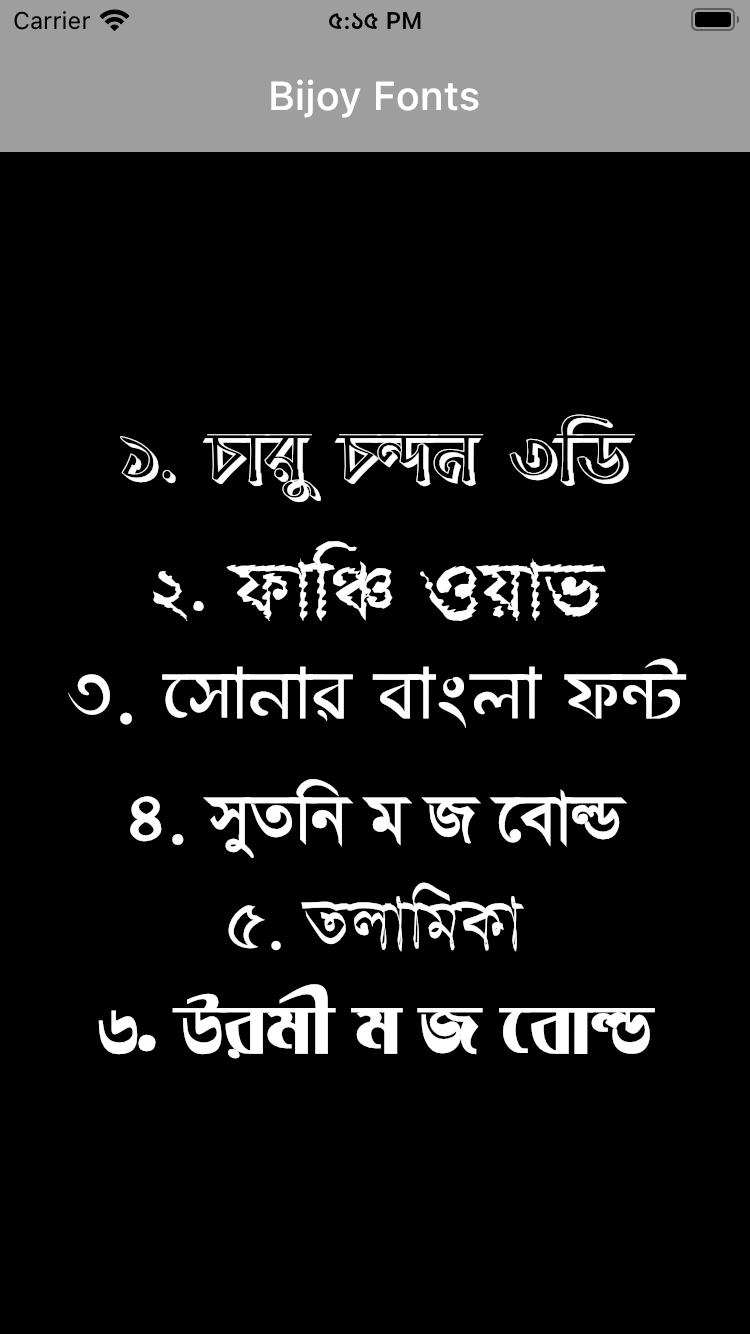
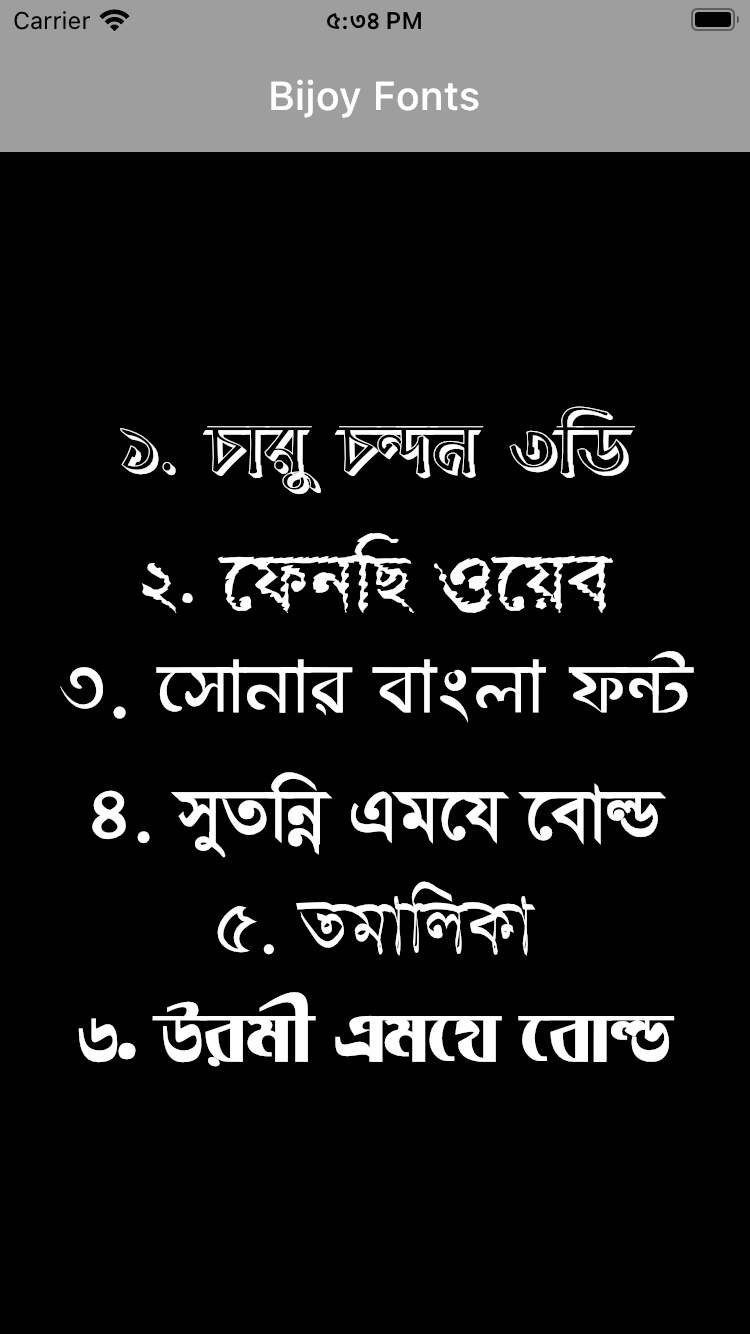
Bijoy Fonts implimentation

diff --git a/lib/views/bijoy_fonts.dart b/lib/views/bijoy_fonts.dart
@@ -30,7 +30,7 @@ class BijoyFonts extends StatelessWidget {
               ),
             ),
             Text(
-              "2. dvwÂ Iqvf",
+              "2. ‡dbwQ I‡qe",
               style: TextStyle(
                 fontSize: 50,
                 color: Colors.white,
@@ -40,31 +40,31 @@ class BijoyFonts extends StatelessWidget {
             Text(
               "3. ‡mvbvi evsjv d›U",
               style: TextStyle(
-                fontSize: 40,
+                fontSize: 41,
                 color: Colors.white,
                 fontFamily: 'Sonar_Bangla_Font',
               ),
             ),
             SizedBox(height: 30),
             Text(
-              "4. myZwb g R ‡evì",
+              "4. myZwbœ Gg‡h ‡evì",
               style: TextStyle(
-                fontSize: 40,
+                fontSize: 43,
                 color: Colors.white,
                 fontFamily: 'SutonnyMJ Bold',
               ),
             ),
             SizedBox(height: 10),
             Text(
-              "5. ZjvwgKv",
+              "5. ZgvwjKv",
               style: TextStyle(
-                fontSize: 40,
+                fontSize: 43,
                 color: Colors.white,
                 fontFamily: 'Tomalicca',
               ),
             ),
             Text(
-              "6. Digx g R ‡evì",
+              "6. Digx Gg‡h ‡evì",
               style: TextStyle(
                 fontSize: 40,
                 color: Colors.white,

diff --git a/README.md b/README.md
@@ -7,13 +7,16 @@ Flutter supports the following font formats:
 .ttf
 .otf
 <br>
-The bangla fonts are downloaded from [okkhor52.com](https://okkhor52.com/)
+The Bijoy fonts are downloaded from [okkhor52.com](https://okkhor52.com/)
 Note: Flutter does not support .woff and .woff2 fonts for all platforms.
 
 ## Screenshots
 
-<img align="left" src="screenshots/english_fonts.png" height="400"></img>
-<img align="left" src="screenshots/bijoy_fonts.png" height="400"></img>
+<p align="center">
+<img src="screenshots/english_fonts.png" height="400"></img>
+&nbsp;&nbsp;&nbsp;&nbsp;
+<img src="screenshots/bijoy_fonts.png" height="400"></img>
+</p>
 
 ## Bijoy Fonts to Unicode Converter [CONVERTER](https://bsbk.portal.gov.bd/apps/bangla-converter/index.html)
 
